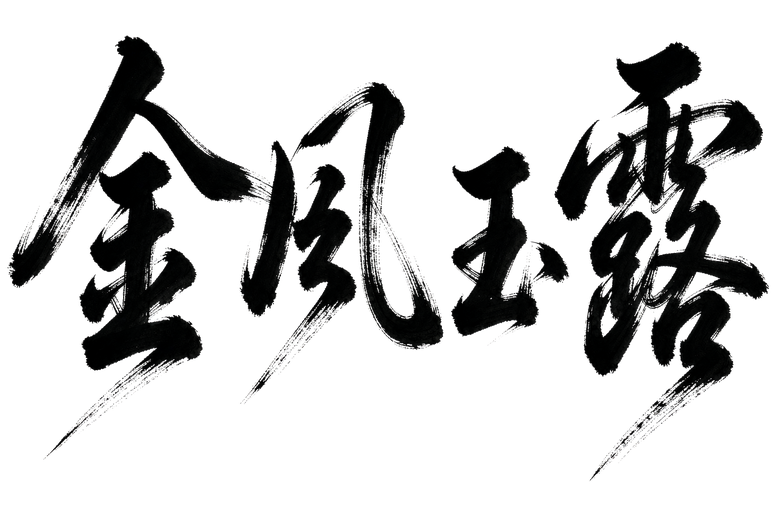
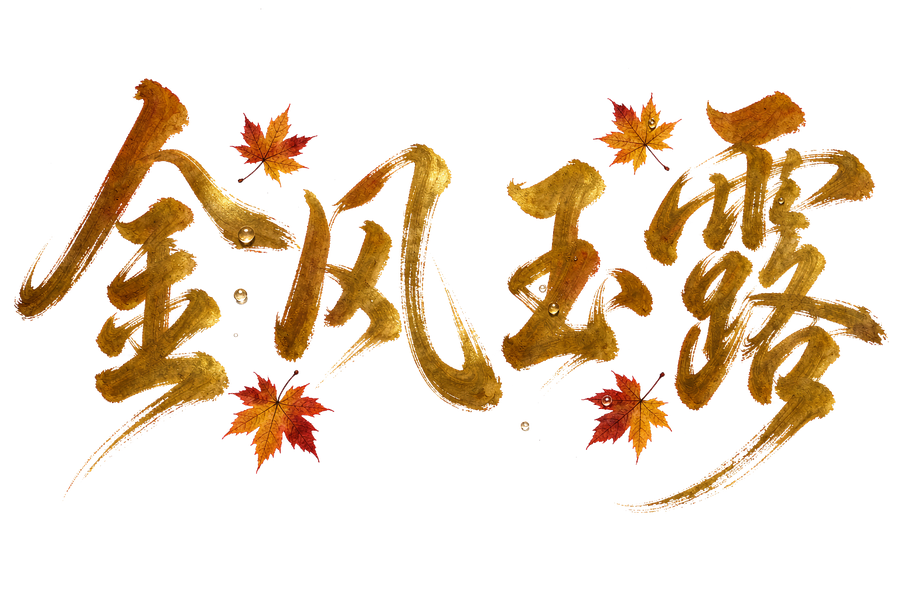
幕标题：四季配色+季节装饰的书法艺术字，并放大到屏幕 62%
用户三条意见：
1. 字太小（截图里只占中间一小块）
2. 全是黑的，和当前季节不搭
3. 每一幕要体现季节，加装饰才有"艺术字"的感觉

改动：
- 五张重新出图（ImageGen），按季节配色与点缀：
  春=淡青绿+桃花瓣/柳芽；夏=赭红朱砂+余烬火星/卷云；
  秋=赭黄金+枫叶/露珠；冬=靛青银灰+冰晶雪粒；长夏=土黄褐+山石皴纹/麦穗。
- 抠像阈值放宽到 243（保住淡色花瓣/冰晶），裁边、统一高 600：
  Resources/UI/Title/act1..5.png
- ActIntroPanel.WriteArtAsync 尺寸改为**按画布算**：
  宽 ≈ 画布 62%，高 = min(画布 46%, 62%宽/比例)，并把锚点归到画布中轴（原来是单字模板的锚点，所以偏小偏边）。

diff --git a/Assets/WanXiang/Modules/UI/ActIntroPanel.cs b/Assets/WanXiang/Modules/UI/ActIntroPanel.cs
@@ -649,13 +649,22 @@ namespace WanXiang.Modules.UI
             img.color = Color.white;          // 艺术字自带墨色，不再染色
             img.preserveAspect = true;
 
-            // 尺寸：高度取 Root_Title 的 78%，宽度按图比例（横排四字约 1.5:1）
-            var parentRt = tpl.parent as RectTransform;
-            float parentH = parentRt != null ? parentRt.rect.height : 420f;
-            float targetH = Mathf.Max(160f, parentH * 0.78f);
-            float aspect = art.rect.height > 1f ? art.rect.width / art.rect.height : 2f;
-            clone.sizeDelta = new Vector2(targetH * aspect, targetH);
-            clone.anchoredPosition = tpl.anchoredPosition;
+            // 尺寸：按**屏幕**算（用户："字太小"）。宽度 ≈ 画布 62%，高度按图比例且不超过画布 48%。
+            float aspect = art.rect.height > 1f ? art.rect.width / art.rect.height : 1.6f;
+            var canvas = GetComponentInParent<Canvas>();
+            float cw = 1920f, ch = 1080f;
+            if (canvas != null)
+            {
+                var cr = canvas.rootCanvas != null ? canvas.rootCanvas.GetComponent<RectTransform>() : canvas.GetComponent<RectTransform>();
+                if (cr != null && cr.rect.width > 1f) { cw = cr.rect.width; ch = cr.rect.height; }
+            }
+            float targetH = Mathf.Min(ch * 0.46f, (cw * 0.62f) / Mathf.Max(0.2f, aspect));
+            float targetW = targetH * aspect;
+            clone.sizeDelta = new Vector2(targetW, targetH);
+            // 居中：模板是"单字"的锚点，横排大图必须回到画布中轴
+            clone.anchorMin = clone.anchorMax = new Vector2(0.5f, 0.5f);
+            clone.pivot = new Vector2(0.5f, 0.5f);
+            clone.anchoredPosition = new Vector2(0f, tpl.anchoredPosition.y);
 
             // 笔锋写入材质
             var sh = Shader.Find("WanXiang/UI/RealmTitleReveal");
